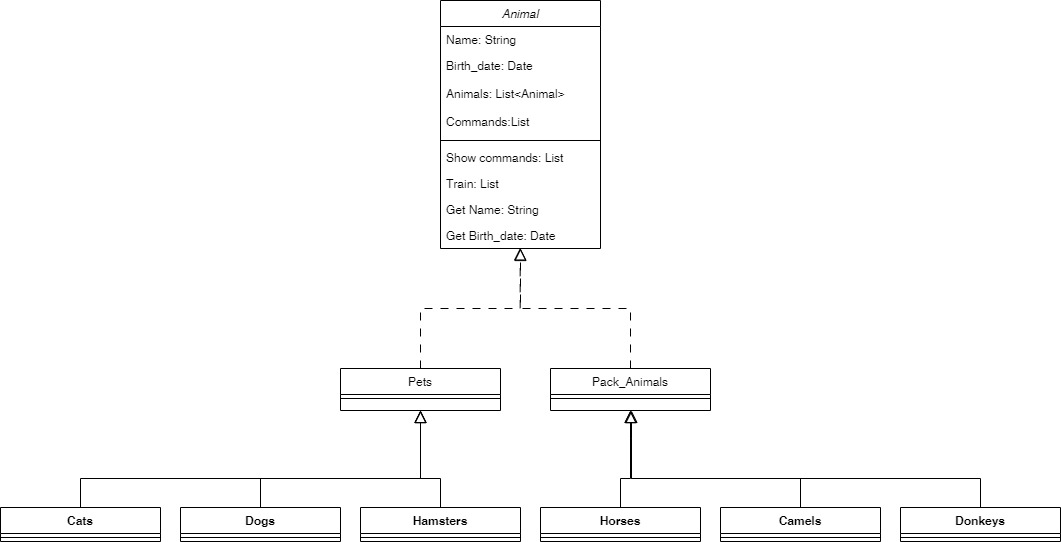
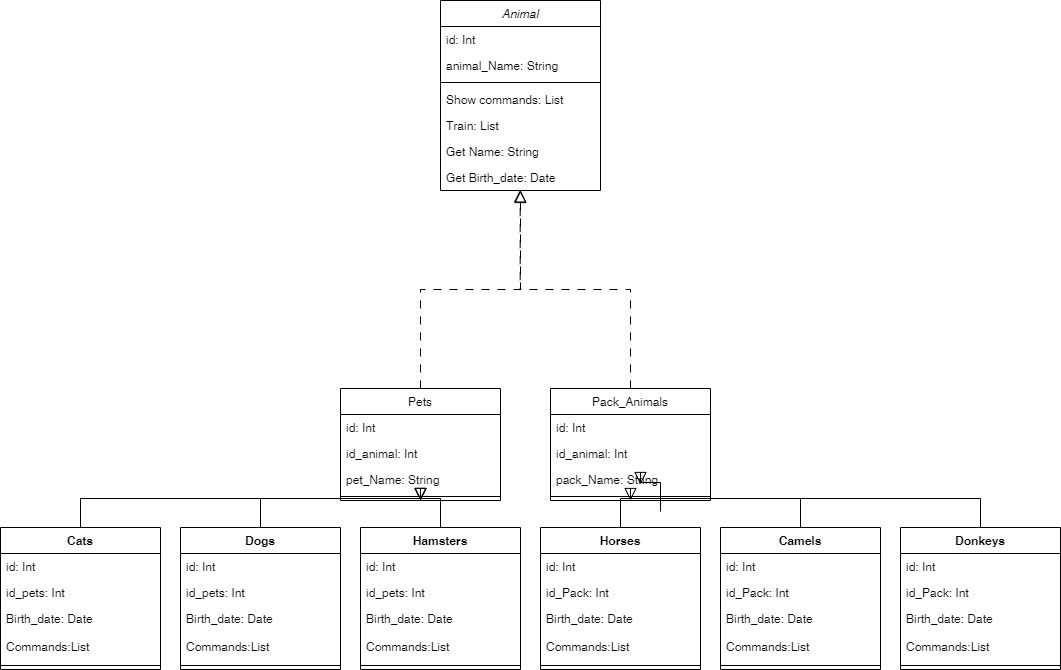
Add sql file and change Diagram

diff --git a/README.md b/README.md
@@ -319,6 +319,9 @@ wakhsavior@GB-Linux:~/GeekBrains/Final_Project$ history
 </details>
 
 ###SQL
+
+[SQL file commands](./Animals.sql)
+
 <details>
 <summary>Задание 6:</summary>
 <picture>
